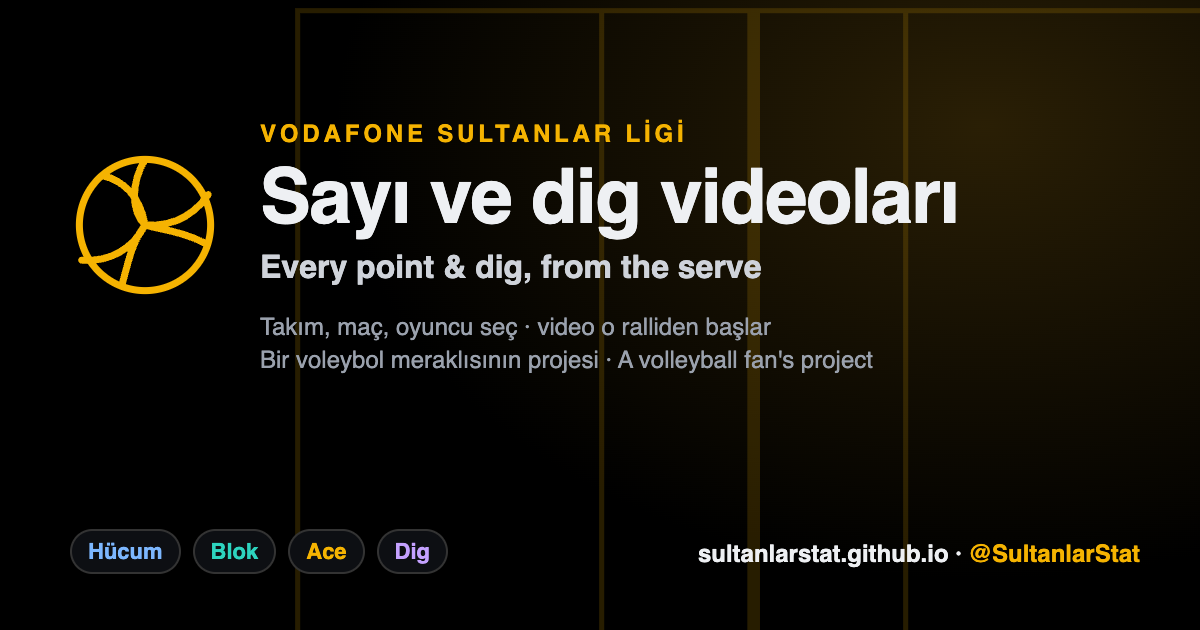
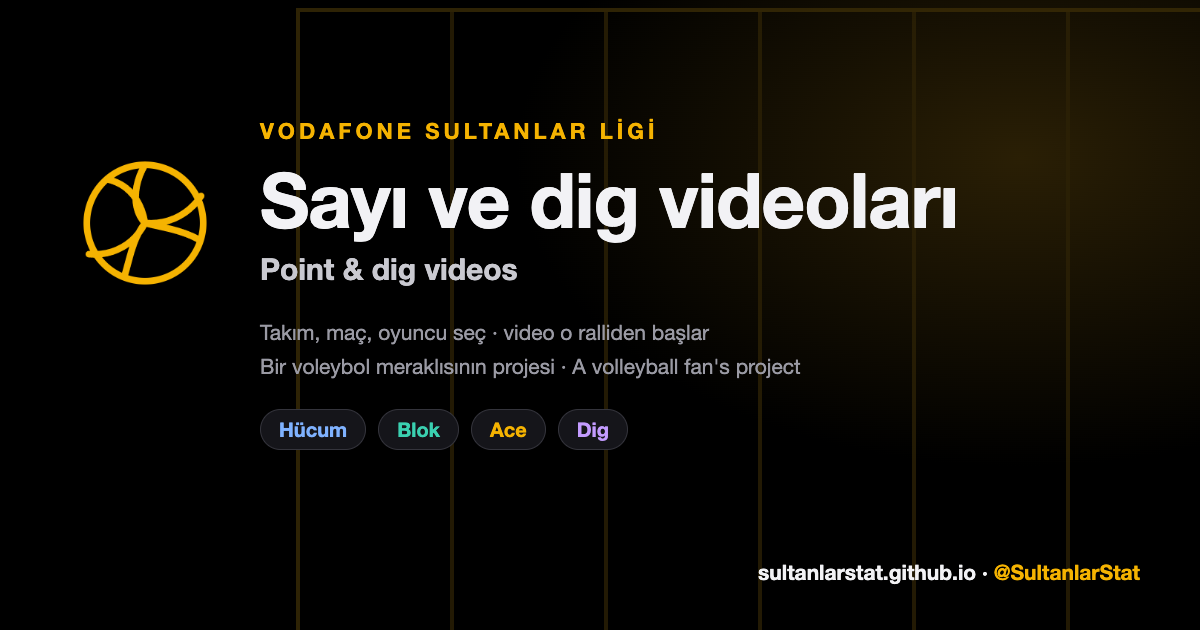
Paylaşım metninde seçili tür (59 Ace, hücum / blok sayısı); kapak görseli: İngilizce alt başlık sitenin adı, etiketler X'in başlık şeridinden yukarı

Changed region(s): [[0.0617, 0.0, 0.9558, 1.0], [0.0617, 0.2413, 0.185, 0.4825]]

diff --git a/index.html b/index.html
@@ -10,11 +10,11 @@
 <meta property="og:description" content="Takım, maç ve oyuncu seç; oyuncunun sayıları ve dig'leri videoda o andan başlar.">
 <meta property="og:type" content="website">
 <meta property="og:url" content="https://sultanlarstat.github.io/">
-<meta property="og:image" content="https://sultanlarstat.github.io/kapak.png">
+<meta property="og:image" content="https://sultanlarstat.github.io/kapak.png?v=2">
 <meta property="og:image:width" content="1200">
 <meta property="og:image:height" content="630">
 <meta name="twitter:card" content="summary_large_image">
-<meta name="twitter:image" content="https://sultanlarstat.github.io/kapak.png">
+<meta name="twitter:image" content="https://sultanlarstat.github.io/kapak.png?v=2">
 <meta name="twitter:site" content="@SultanlarStat">
 <meta name="theme-color" content="#000000">
 <!-- ana ekrana eklenince uygulama gibi açılır (adres çubuğu yok; iPhone'da tam ekran ancak böyle) -->
@@ -320,7 +320,7 @@ const I18N = {
        end: 'Listenin sonu', again: '↺ Baştan', fexit: 'Tam ekrandan çık', fnext: 'Sonraki', fprev: 'Önceki',
        loading: 'Veri yükleniyor…', loading2: 'Yükleniyor…', fail: 'Veri okunamadı: ', all_matches: 'Bütün maçlar',
        novideo_tag: ' (video yok)', novideo: 'Videosuna ulaşamadığımız maçlar: ', all_players: 'Bütün oyuncular',
-       points: n => `${n} sayı`, digs: n => `${n} dig`, withvideo: n => `${n} tanesinin videosu var`,
+       points: n => `${n} sayı`, digs: n => `${n} dig`, n_hucum: n => `${n} hücum sayısı`, n_blok: n => `${n} blok sayısı`, n_ace: n => `${n} Ace`, withvideo: n => `${n} tanesinin videosu var`,
        empty: 'Bu seçimde sayı yok.', set: n => `${n}. set`, novid: 'video yok', copied: 'Link kopyalandı',
        share_x: "X'te paylaş", sec: 'sn', lang_btn: 'EN',
        tab_sayi: "Sayılar ve dig'ler", tab_uzun: 'En uzun ralliler', all_teams: 'Bütün takımlar', week: 'Hafta',
@@ -342,6 +342,7 @@ const I18N = {
        loading: 'Loading data…', loading2: 'Loading…', fail: 'Could not load data: ', all_matches: 'All matches',
        novideo_tag: ' (no video)', novideo: 'Matches without video: ', all_players: 'All players',
        points: n => `${n} point${n === 1 ? '' : 's'}`, digs: n => `${n} dig${n === 1 ? '' : 's'}`,
+       n_hucum: n => `${n} attack point${n === 1 ? '' : 's'}`, n_blok: n => `${n} block point${n === 1 ? '' : 's'}`, n_ace: n => `${n} ace${n === 1 ? '' : 's'}`,
        withvideo: n => `${n} with video`, empty: 'Nothing in this selection.', set: n => `Set ${n}`,
        novid: 'no video', copied: 'Link copied', share_x: 'Share on X', sec: 's', lang_btn: 'TR',
        tab_sayi: 'Points & digs', tab_uzun: 'Longest rallies', all_teams: 'All teams', week: 'Week',
@@ -518,10 +519,15 @@ function players() {
 }
 
 // "48 sayı · 30 dig" (dig sayı değil, ayrı sayılır)
+// sayı türlerinin hepsi seçili değilse türüyle: "59 Ace", "40 hücum sayısı · 12 blok sayısı"
 function counts(rows) {
   if (MODE === 'uzun') return t('rallies', rows.length);
-  const d = rows.filter(r => r.tur === 'Dig').length, n = rows.length - d;
-  return [n ? t('points', n) : '', d ? t('digs', d) : ''].filter(Boolean).join(' · ') || t('points', 0);
+  const on = [...document.querySelectorAll('.types input:checked')].map(x => x.value);
+  const pts = ['Hücum', 'Blok', 'Ace'], c = tur => rows.filter(r => r.tur === tur).length;
+  const d = c('Dig'), n = rows.length - d;
+  const p = pts.every(x => on.includes(x)) ? [n ? t('points', n) : '']
+          : pts.filter(x => on.includes(x)).map(x => t('n_' + fold(x), c(x)));
+  return [...p, d ? t('digs', d) : ''].filter(Boolean).join(' · ') || t('points', 0);
 }
 
 // videodaki saniye, ziyaretçinin başlangıç ayarıyla
